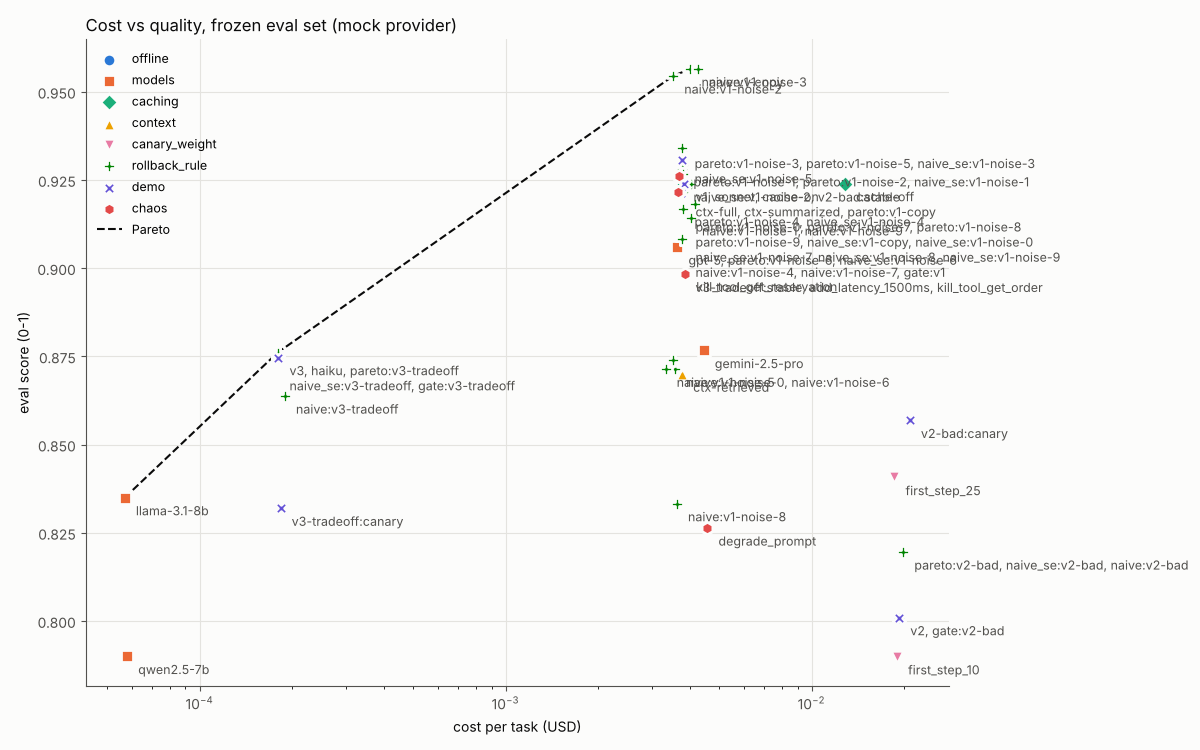
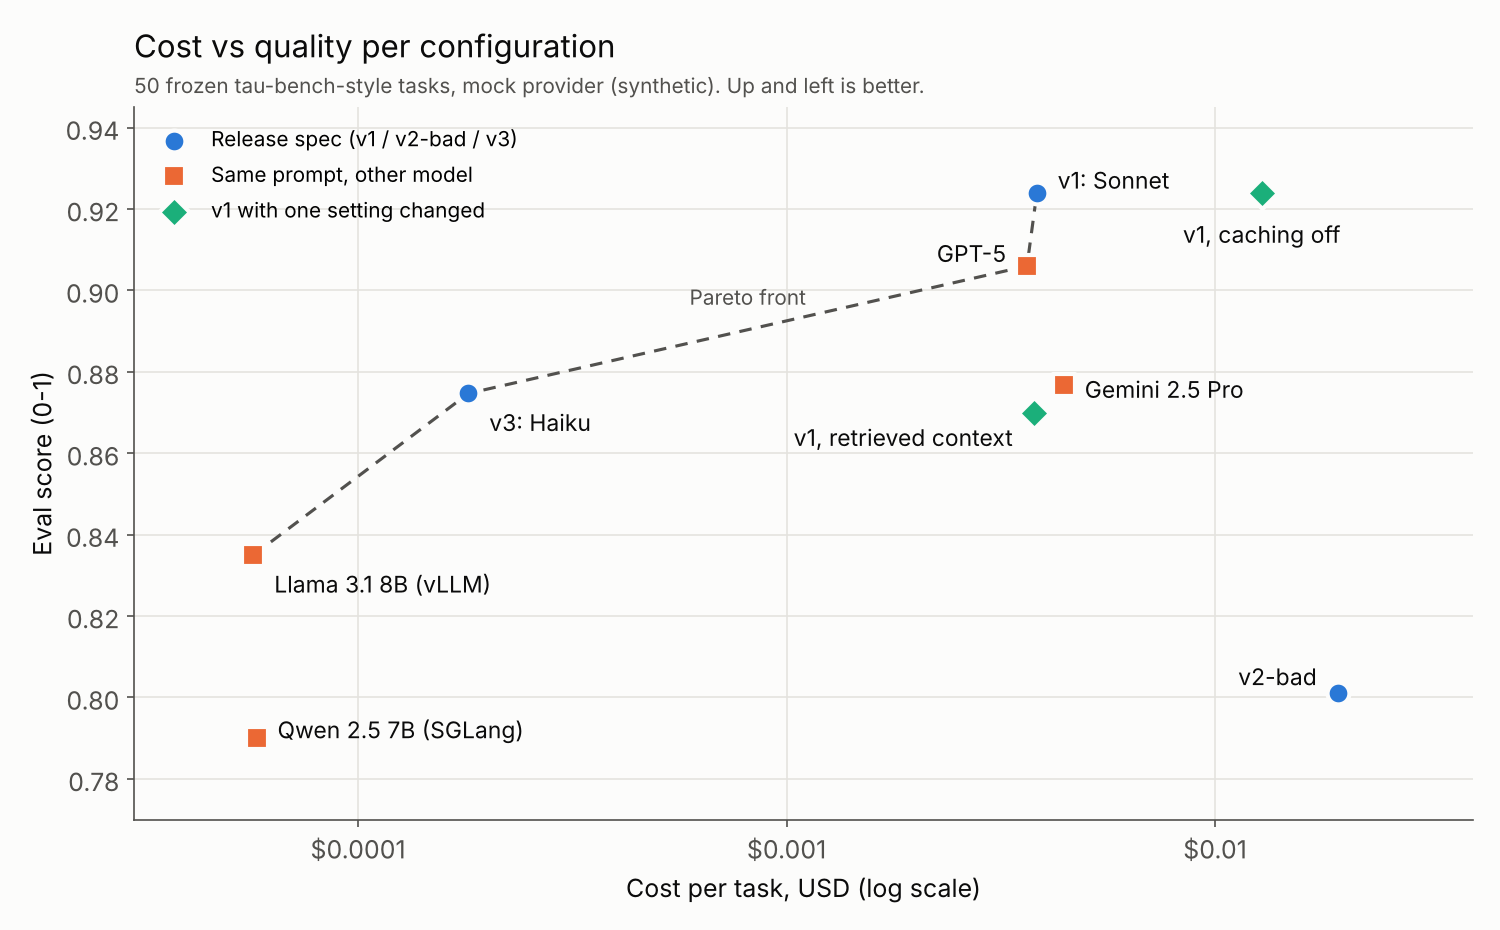
eval: readable cost-quality plot, README summary tables

diff --git a/scripts/report.py b/scripts/report.py
@@ -1,4 +1,4 @@
-"""runs/*.jsonl -> results/results.md (one table) + results/cost_vs_quality.png.
+"""runs/*.jsonl -> results/results.md (full table), results/summary.md (README tables),\nresults/cost_vs_quality.png.
 
     python scripts/report.py [--runs runs] [--out results]
 
@@ -102,70 +102,149 @@ def pareto_front(points: list[tuple[float, float]]) -> list[tuple[float, float]]
     return front
 
 
+# Distinct configurations for the plot and the README summary. Duplicates of v1 (models:sonnet,
+# caching:cache-on, context:ctx-summarized) and of v3 (models:haiku) are folded into one point.
+# (experiment, variant, label, group, label offset in points)
+CONFIGS = (
+    ("offline", "v1", "v1: Sonnet", "release", (10, 6)),
+    ("offline", "v2", "v2-bad", "release", (-10, 8)),
+    ("offline", "v3", "v3: Haiku", "release", (10, -14)),
+    ("models", "gpt-5", "GPT-5", "model", (-10, 6)),
+    ("models", "gemini-2.5-pro", "Gemini 2.5 Pro", "model", (10, -2)),
+    ("models", "llama-3.1-8b", "Llama 3.1 8B (vLLM)", "model", (10, -14)),
+    ("models", "qwen2.5-7b", "Qwen 2.5 7B (SGLang)", "model", (10, 4)),
+    ("caching", "cache-off", "v1, caching off", "variant", (0, -20)),
+    ("context", "ctx-retrieved", "v1, retrieved context", "variant", (-10, -12)),
+)
+GROUPS = (  # categorical slots 1-3 in fixed order; marker is secondary encoding
+    ("release", "Release spec (v1 / v2-bad / v3)", PALETTE[0], "o"),
+    ("model", "Same prompt, other model", PALETTE[1], "s"),
+    ("variant", "v1 with one setting changed", PALETTE[2], "D"),
+)
+
+
+def _configs(rows: list[dict[str, Any]]) -> list[tuple[dict[str, Any], str, str, tuple[int, int]]]:
+    by_key = {(r["experiment"], r["variant"]): r for r in rows}
+    out = []
+    for exp, variant, label, group, offset in CONFIGS:
+        r = by_key.get((exp, variant))
+        if r and r.get("cost_per_task") is not None and r.get("eval_score") is not None:
+            out.append((r, label, group, offset))
+    return out
+
+
 def render_plot(rows: list[dict[str, Any]], path: Path) -> int:
-    pts = [
-        r for r in rows if r.get("cost_per_task") is not None and r.get("eval_score") is not None
-    ]
-    fig, ax = plt.subplots(figsize=(12, 7.5), dpi=100)
+    from matplotlib.ticker import FuncFormatter
+
+    pts = _configs(rows)
+    plt.rcParams.update({"font.size": 12})
+    fig, ax = plt.subplots(figsize=(10, 6.2), dpi=150)
     fig.patch.set_facecolor(SURFACE)
     ax.set_facecolor(SURFACE)
-    experiments = list(dict.fromkeys(r["experiment"] for r in pts))
-    for i, exp in enumerate(experiments):
-        sub = [r for r in pts if r["experiment"] == exp]
+    front = pareto_front([(r["cost_per_task"], r["eval_score"]) for r, *_ in pts])
+    if len(front) > 1:
+        ax.plot(*zip(*front, strict=True), color=MUTED, lw=1.5, ls=(0, (4, 3)), zorder=2)
+        (x0, y0), (x1, y1) = front[len(front) // 2 - 1], front[len(front) // 2]
+        ax.annotate(
+            "Pareto front",
+            ((x0 * x1) ** 0.5, (y0 + y1) / 2),  # segment midpoint on the log-x axis
+            xytext=(0, 12),
+            textcoords="offset points",
+            ha="center",
+            fontsize=10,
+            color=MUTED,
+        )
+    for key, name, color, marker in GROUPS:
+        sub = [(r, label, off) for r, label, g, off in pts if g == key]
+        if not sub:
+            continue
         ax.scatter(
-            [r["cost_per_task"] for r in sub],
-            [r["eval_score"] for r in sub],
-            s=80,
-            marker=MARKERS[i % len(MARKERS)],
-            color=PALETTE[i % len(PALETTE)],
+            [r["cost_per_task"] for r, *_ in sub],
+            [r["eval_score"] for r, *_ in sub],
+            s=110,
+            marker=marker,
+            color=color,
             edgecolor=SURFACE,
             linewidth=2,
-            label=exp,
+            label=name,
             zorder=3,
         )
-    # one label per coincident point (e.g. v1 == sonnet == cache-on)
-    groups: dict[tuple[float, float], list[str]] = {}
-    for r in pts:
-        c, q = r["cost_per_task"], r["eval_score"]
-        key = next(
-            (k for k in groups if abs(k[1] - q) < 0.004 and abs(c - k[0]) <= 0.05 * max(c, k[0])),
-            (c, q),
-        )
-        groups.setdefault(key, []).append(r["variant"])
-    for (cost, score), names in groups.items():
-        names = list(dict.fromkeys(names))
-        text = "\n".join(", ".join(names[i : i + 3]) for i in range(0, len(names), 3))
-        ax.annotate(
-            text,
-            (cost, score),
-            xytext=(8, -4),
-            textcoords="offset points",
-            fontsize=9,
-            color=MUTED,
-            va="top",
-        )
-    front = pareto_front([(r["cost_per_task"], r["eval_score"]) for r in pts])
-    if len(front) > 1:
-        ax.plot(*zip(*front, strict=True), color=INK, lw=1.5, ls="--", zorder=2, label="Pareto")
-    costs = [r["cost_per_task"] for r in pts if r["cost_per_task"] > 0]
-    if costs and max(costs) / min(costs) > 20:
-        ax.set_xscale("log")
-    ax.set_xlabel("cost per task (USD)", color=INK)
-    ax.set_ylabel("eval score (0-1)", color=INK)
-    ax.set_title("Cost vs quality, frozen eval set (mock provider)", color=INK, loc="left")
-    ax.grid(True, color=GRID, lw=0.8)
+        for r, label, (dx, dy) in sub:
+            ax.annotate(
+                label,
+                (r["cost_per_task"], r["eval_score"]),
+                xytext=(dx, dy),
+                textcoords="offset points",
+                ha="center" if dx == 0 else ("left" if dx > 0 else "right"),
+                va="center",
+                fontsize=11,
+                color=INK,
+            )
+    ax.set_xscale("log")
+    ax.xaxis.set_major_formatter(FuncFormatter(lambda v, _: f"${v:g}"))
+    ax.set_xlim(3e-5, 4e-2)
+    ax.set_ylim(0.77, 0.945)
+    ax.set_xlabel("Cost per task, USD (log scale)", color=INK)
+    ax.set_ylabel("Eval score (0-1)", color=INK)
+    ax.set_title("Cost vs quality per configuration", color=INK, loc="left", fontsize=15, pad=24)
+    ax.text(
+        0,
+        1.02,
+        "50 frozen tau-bench-style tasks, mock provider (synthetic). Up and left is better.",
+        transform=ax.transAxes,
+        fontsize=10,
+        color=MUTED,
+    )
+    ax.grid(True, which="major", color=GRID, lw=0.8)
+    ax.minorticks_off()
     for side in ("top", "right"):
         ax.spines[side].set_visible(False)
     for side in ("left", "bottom"):
         ax.spines[side].set_color(MUTED)
     ax.tick_params(colors=MUTED)
-    if pts:
-        ax.legend(frameon=False, loc="upper left", fontsize=9)
+    ax.legend(frameon=False, loc="upper left", fontsize=10)
     fig.tight_layout()
     path.parent.mkdir(parents=True, exist_ok=True)
     fig.savefig(path, facecolor=SURFACE, metadata={"Software": None})
     plt.close(fig)
     return len(pts)
+
+
+def render_summary(rows: list[dict[str, Any]]) -> str:
+    """Two short tables for the README; full table stays in results.md."""
+    lines = [
+        "| Config | Eval score | Success | Cost/task | p95 | Cache hit |",
+        "|---|---:|---:|---:|---:|---:|",
+    ]
+    for r, label, _, _ in _configs(rows):
+        lines.append(
+            f"| {label} | {fmt(r.get('eval_score'), '{:.3f}')} | "
+            f"{fmt(r.get('task_success'), '{:.2f}')} | {fmt(r.get('cost_per_task'), '${:.5f}')} | "
+            f"{fmt((r.get('p95_latency_ms') or 0) / 1000, '{:.1f} s')} | "
+            f"{fmt(r.get('cache_hit_rate'), '{:.2f}')} |"
+        )
+    by_key = {(r["experiment"], r["variant"]): r for r in rows}
+
+    def ttd(exp: str, variant: str) -> str:
+        return fmt((by_key.get((exp, variant)) or {}).get("time_to_detect_s"), "{:.0f} s")
+
+    def fr(rule: str) -> str:
+        return fmt((by_key.get(("rollback_rule", rule)) or {}).get("false_rollbacks"), "{}")
+
+    n = (by_key.get(("rollback_rule", "pareto")) or {}).get("n", "-")
+    lines += [
+        "",
+        "| Rollout experiment | Result |",
+        "|---|---|",
+        f"| Time to detect v2-bad, first canary step 10% / 25% | "
+        f"{ttd('canary_weight', 'first_step_10')} / {ttd('canary_weight', 'first_step_25')} |",
+        f"| False rollbacks over {n} candidates: Pareto / thresholds + noise band / fixed "
+        f"thresholds | {fr('pareto')} / {fr('naive_se')} / {fr('naive')} |",
+        f"| Chaos time to detect: degraded prompt / +1500 ms latency / killed tool | "
+        f"{ttd('chaos', 'degrade_prompt')} / {ttd('chaos', 'add_latency_1500ms')} / "
+        f"{ttd('chaos', 'kill_tool_get_order')}-{ttd('chaos', 'kill_tool_get_reservation')} |",
+    ]
+    return "\n".join(lines) + "\n"
 
 
 def main(argv: list[str] | None = None) -> int:
@@ -177,6 +256,7 @@ def main(argv: list[str] | None = None) -> int:
     out = Path(args.out)
     out.mkdir(parents=True, exist_ok=True)
     (out / "results.md").write_text(render_markdown(rows))
+    (out / "summary.md").write_text(render_summary(rows))
     n = render_plot(rows, out / "cost_vs_quality.png")
     print(f"{len(rows)} rows -> {out / 'results.md'}; {n} points -> {out / 'cost_vs_quality.png'}")
     return 0

diff --git a/docs/STATUS.md b/docs/STATUS.md
@@ -9,7 +9,7 @@
 | `make lint`, `make typecheck` | ruff clean, mypy clean (60 files), promtool 3.1.0 `check rules` (88 rules) + `test rules` pass |
 | `make eval-gate` | Inspect AI over 50 frozen tasks with `mockllm/model`; v1, v2-bad, v3 pass offline thresholds |
 | `make promptfoo` | 10/10 cases on v1 (promptfoo 0.103.5, `--no-write`) |
-| `make matrix rollout chaos report finops` | `runs/*.jsonl`, `results/results.md`, `results/cost_vs_quality.png`, `results/finops.md` |
+| `make matrix rollout chaos report finops` | `runs/*.jsonl`, `results/results.md`, `results/summary.md`, `results/cost_vs_quality.png`, `results/finops.md` |
 | `make plan-aws`, `make plan-azure` | `init -backend=false`, `validate`, `terraform test` (mock providers, `command = plan`) pass |
 | `make validate-k8s` | helm lint, helm template x4 value sets, kubeconform -strict with upstream + CRD catalog schemas, 7 kustomize builds |
 | `docker compose -f compose/docker-compose.yaml config -q` | passes (daemon not required) |

diff --git a/results/summary.md b/results/summary.md
@@ -1,0 +1,17 @@
+| Config | Eval score | Success | Cost/task | p95 | Cache hit |
+|---|---:|---:|---:|---:|---:|
+| v1: Sonnet | 0.924 | 0.88 | $0.00384 | 5.4 s | 0.92 |
+| v2-bad | 0.801 | 0.66 | $0.01932 | 7.1 s | 0.00 |
+| v3: Haiku | 0.875 | 0.78 | $0.00018 | 2.8 s | 0.92 |
+| GPT-5 | 0.906 | 0.84 | $0.00364 | 7.9 s | 0.92 |
+| Gemini 2.5 Pro | 0.877 | 0.80 | $0.00444 | 6.1 s | 0.92 |
+| Llama 3.1 8B (vLLM) | 0.835 | 0.64 | $0.00006 | 3.1 s | 0.92 |
+| Qwen 2.5 7B (SGLang) | 0.790 | 0.58 | $0.00006 | 2.9 s | 0.92 |
+| v1, caching off | 0.924 | 0.88 | $0.01285 | 5.5 s | 0.00 |
+| v1, retrieved context | 0.870 | 0.82 | $0.00377 | 5.4 s | 0.80 |
+
+| Rollout experiment | Result |
+|---|---|
+| Time to detect v2-bad, first canary step 10% / 25% | 97 s / 48 s |
+| False rollbacks over 13 candidates: Pareto / thresholds + noise band / fixed thresholds | 0 / 1 / 11 |
+| Chaos time to detect: degraded prompt / +1500 ms latency / killed tool | 134 s / 97 s / 44 s-70 s |
